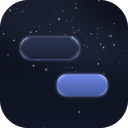
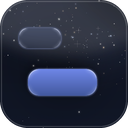
아이콘을 다시 그리고 눌림 상태 색을 분리한다
아이콘이 평평한 사각형이라 스티커처럼 보였다. 비네팅으로 가장자리를 눌러 말풍선이 뜨게
하고, 큰 말풍선 밑에 그림자를 깔고, 위쪽 광택과 얇은 안쪽 테두리를 얹었다.
밝은 테마와 어두운 테마에서 눌리는 방향이 반대라 배경 밝기로 갈랐다.

눌림 상태 색을 원래 색과 다르게 잡는다. 카톡은 normal 과 selected 사이를 스스로
부드럽게 전환하는데, 두 끝을 같은 색으로 두면 그 전환이 아무 일도 아닌 게 된다.
말풍선은 원래 다른 그림을 써서 전환이 보였고, 글자 계열은 전부 같은 값이라 죽어 있었다.
이제 포인트색 쪽으로 끌어당긴다.

애니메이션을 못 넣는 것과, 앱이 하는 전환의 양 끝을 설계하는 것은 다른 얘기다.
docs/spec.md 에 전환이 있는 자리를 표로 정리했다.

diff --git a/tools/gen.py b/tools/gen.py
@@ -52,6 +52,29 @@ def lighten(h, f):
     return '#%02X%02X%02X' % tuple(round(v + (255 - v) * f) for v in c)
 
 
+def mix(a, b, f):
+    """a 에서 b 쪽으로 f 만큼 끌어당긴 색."""
+    ca, cb = rgb(a), rgb(b)
+    return '#%02X%02X%02X' % tuple(round(ca[i] + (cb[i] - ca[i]) * f) for i in range(3))
+
+
+def derived(t):
+    """눌림·선택 상태 색을 만든다.
+
+    카톡은 normal 과 selected 사이를 스스로 부드럽게 전환한다. 우리가 애니메이션을
+    넣을 수는 없지만 양 끝을 다르게 그려두면 그 전환이 눈에 보인다.
+    두 끝을 같은 색으로 두면 앱이 아무리 이어줘도 아무 일도 안 일어난다.
+
+    글자는 포인트색 쪽으로 끌어당기고, 말풍선 글자는 배경 대비를 살짝 키운다.
+    """
+    return dict(
+        text_hi=mix(t['text'], t['accent'], 0.55),
+        subtext_hi=mix(t['subtext'], t['accent'], 0.6),
+        send_text_hi=mix(t['send_text'], t['accent'], 0.45),
+        recv_text_hi=mix(t['recv_text'], t['accent'], 0.45),
+    )
+
+
 def mid(a, b):
     ca, cb = rgb(a), rgb(b)
     return '#%02X%02X%02X' % tuple((ca[i] + cb[i]) // 2 for i in range(3))
@@ -470,37 +493,89 @@ def edge_glow(img, color, strength, width_ratio=0.22):
 
 
 def icon(t, size=128):
-    """테마 아이콘. 둥근 사각형에 배경과 말풍선 둘을 축소해 넣는다.
+    """테마 아이콘. 카톡 테마 목록에 뜨는 그림이자 README 의 이름 앞 표식.
+
+    앱 아이콘처럼 보이게 만든다 — 배경에 비네팅을 깔아 말풍선이 뜨게 하고,
+    위에서 빛이 드는 광택과 얇은 안쪽 테두리를 얹는다. 평평한 사각형은 스티커로 보인다.
 
     두 곳에 쓴다.
-      - docs/icon-<key>.png : README 에서 테마 이름 왼쪽
-      - Images/commonIcoTheme.png : 카톡 테마 목록에 뜨는 아이콘 (iOS 규격에 있는 자리)
+      - docs/icon-<key>.png        README 의 테마 이름 왼쪽
+      - Images/commonIcoTheme.png  카톡 테마 목록 (iOS 규격에 있는 자리)
     """
     ss = 4
     W = size * ss
+    light = _is_light(t)
+
     if t.get('chat_bg'):
         base = chat_bg(t['chat_bg'], W, W).convert('RGBA')
     else:
         base = vgradient(W, W, rgb(t['bg']), rgb(t['bg_deep'])).convert('RGBA')
 
+    # 비네팅. 가장자리를 눌러 가운데가 떠 보이게 한다
+    vig = Image.new('L', (W, W), 0)
+    vd = ImageDraw.Draw(vig)
+    for i in range(40):
+        f = i / 39
+        inset = int(W * 0.5 * f)
+        vd.ellipse([inset - W * 0.12, inset - W * 0.12,
+                    W - inset + W * 0.12, W - inset + W * 0.12],
+                   fill=int(90 * (f ** 2)))
+    vig = vig.filter(ImageFilter.GaussianBlur(W * 0.06))
+    shade = Image.new('RGBA', (W, W), (255, 255, 255, 255) if light else (0, 0, 0, 255))
+    shade.putalpha(vig.point(lambda v: int(v * (0.35 if light else 0.8))))
+    base.alpha_composite(shade)
+
     glow, pad = glow_of(t)
     style, alpha = t.get('bubble_style', 'solid'), t.get('bubble_alpha', 255)
     flat = t.get('flat', False)
+    gp = max(1, pad * ss // 3) if glow else 0     # 글로우 없으면 여백도 없다
 
-    bw, bh, r = int(W * 0.46), int(W * 0.17), int(W * 0.075)
-    recv = bubble_box(bw, bh, t['recv'], r, style, alpha, glow, pad * ss // 2, flat)
-    send = bubble_box(int(bw * 0.86), bh, t['send'], r, style, alpha,
-                      glow, pad * ss // 2, flat)
-    m = int(W * 0.13)
-    base.alpha_composite(recv, (m, int(W * 0.26)))
-    base.alpha_composite(send, (W - m - send.size[0], int(W * 0.55)))
+    # 큰 말풍선 하나와 작은 것 하나. 카톡 기본 아이콘도 큰 말풍선이 주인공이다
+    big_w, big_h = int(W * 0.54), int(W * 0.21)
+    sml_w, sml_h = int(W * 0.33), int(W * 0.16)
+    r_big, r_sml = int(big_h * 0.42), int(sml_h * 0.42)
 
+    sml = bubble_box(sml_w, sml_h, t['recv'], r_sml, style, alpha, glow, gp, flat)
+    big = bubble_box(big_w, big_h, t['send'], r_big, style, alpha, glow, gp, flat)
+
+    # 큰 것 밑에 옅은 그림자를 깔아 떠 보이게 한다
+    sh = Image.new('RGBA', (W, W), (0, 0, 0, 0))
+    ImageDraw.Draw(sh).rounded_rectangle(
+        [int(W * 0.20), int(W * 0.52), int(W * 0.20) + big_w, int(W * 0.52) + big_h],
+        radius=r_big, fill=(0, 0, 0, 90 if not light else 45))
+    base.alpha_composite(sh.filter(ImageFilter.GaussianBlur(W * 0.035)))
+
+    base.alpha_composite(sml, (int(W * 0.13), int(W * 0.20)))
+    base.alpha_composite(big, (int(W * 0.20), int(W * 0.52)))
+
+    # 위쪽 광택
+    gloss = Image.new('L', (W, W), 0)
+    ImageDraw.Draw(gloss).ellipse([-W * 0.45, -W * 0.95, W * 1.45, W * 0.42], fill=255)
+    gloss = gloss.filter(ImageFilter.GaussianBlur(W * 0.05))
+    sheen = Image.new('RGBA', (W, W), (255, 255, 255, 255))
+    sheen.putalpha(gloss.point(lambda v: int(v * (0.10 if light else 0.13))))
+    base.alpha_composite(sheen)
+
+    # 둥근 사각형으로 자르고 안쪽에 얇은 테두리
+    radius = int(W * 0.22)
     mask = Image.new('L', (W, W), 0)
-    ImageDraw.Draw(mask).rounded_rectangle([0, 0, W - 1, W - 1],
-                                           radius=int(W * 0.22), fill=255)
+    ImageDraw.Draw(mask).rounded_rectangle([0, 0, W - 1, W - 1], radius=radius, fill=255)
     out = Image.new('RGBA', (W, W), (0, 0, 0, 0))
     out.paste(base, (0, 0), mask)
+
+    edge = Image.new('RGBA', (W, W), (0, 0, 0, 0))
+    ImageDraw.Draw(edge).rounded_rectangle(
+        [ss, ss, W - ss - 1, W - ss - 1], radius=radius - ss,
+        outline=(0, 0, 0, 60) if light else (255, 255, 255, 46), width=ss)
+    edge.putalpha(ImageChops.multiply(edge.getchannel('A'), mask))
+    out.alpha_composite(edge)
     return out.resize((size, size), Image.LANCZOS)
+
+
+def _is_light(t):
+    """밝은 테마인지. 배경 밝기로 판단한다."""
+    c = rgb(t['bg'])
+    return (c[0] * 299 + c[1] * 587 + c[2] * 114) / 1000 > 128
 
 
 # --- iOS ----------------------------------------------------------------
@@ -542,13 +617,13 @@ MainViewStyle-Primary
     background-color: {bg};{mainbg}
 
     -ios-text-color: {text};
-    -ios-highlighted-text-color: {text};
+    -ios-highlighted-text-color: {text_hi};
 
     -ios-description-text-color: {subtext};
-    -ios-description-highlighted-text-color: {subtext};
+    -ios-description-highlighted-text-color: {subtext_hi};
 
     -ios-paragraph-text-color: {subtext};
-    -ios-paragraph-highlighted-text-color: {subtext};
+    -ios-paragraph-highlighted-text-color: {subtext_hi};
 
     /* alpha 가 1 미만이면 뒤의 배경 이미지가 비친다. 유리 느낌은 여기서 나온다 */
     -ios-normal-background-color: {bg};
@@ -618,7 +693,7 @@ MessageCellStyle-Send
     -ios-group-title-edgeinsets: {ins};
 
     -ios-text-color: {send_text};
-    -ios-selected-text-color: {send_text};
+    -ios-selected-text-color: {send_text_hi};
     -ios-unread-text-color: {accent};
 }}
 
@@ -633,7 +708,7 @@ MessageCellStyle-Receive
     -ios-group-title-edgeinsets: {ins};
 
     -ios-text-color: {recv_text};
-    -ios-selected-text-color: {recv_text};
+    -ios-selected-text-color: {recv_text_hi};
     -ios-unread-text-color: {accent};
 }}
 
@@ -739,6 +814,7 @@ def gen_ios(t, root):
 
     ca = t.get('cell_alpha', 1.0)
     fields = dict(t)
+    fields.update(derived(t))          # 눌림 상태 색
     fields.pop('cell_alpha', None)          # 아래에서 문자열로 다시 넣는다
     ins = '%dpx %dpx %dpx %dpx' % (INSET_V + pad, INSET_H + pad,
                                   INSET_V + pad, INSET_H + pad)
@@ -780,11 +856,11 @@ COLORS = [
     ('theme_tab_bannerbadge_background_color', 'accent'),
     ('theme_section_title_color', 'subtext'),
     ('theme_title_color', 'text'),
-    ('theme_title_pressed_color', 'text'),
+    ('theme_title_pressed_color', 'text_hi'),
     ('theme_paragraph_color', 'subtext'),
-    ('theme_paragraph_pressed_color', 'subtext'),
+    ('theme_paragraph_pressed_color', 'subtext_hi'),
     ('theme_description_color', 'subtext'),
-    ('theme_description_pressed_color', 'subtext'),
+    ('theme_description_pressed_color', 'subtext_hi'),
     ('theme_body_cell_color', 'bg'),
     ('theme_body_cell_pressed_color', 'pressed'),
     ('theme_body_cell_border_color', 'border'),
@@ -854,13 +930,15 @@ def gen_android(t, root, code):
     lines = ['<?xml version="1.0" encoding="utf-8"?>',
              '<!-- %s. tools/themes.py 에서 생성된다. 직접 고치지 말 것. -->' % t['name'],
              '<resources>', '']
+    tok = dict(t)
+    tok.update(derived(t))
     ca = t.get('cell_alpha', 1.0)
     # 셀 배경만 알파를 먹인다. 글자색까지 투명해지면 안 읽힌다
     faded = {'theme_body_cell_color', 'theme_body_secondary_cell_color',
              'theme_maintab_cell_color', 'theme_header_cell_color'}
     for name, token in COLORS:
         a = ca if name in faded else 1.0
-        lines.append('    <color name="%s">%s</color>' % (name, argb(t[token], a)))
+        lines.append('    <color name="%s">%s</color>' % (name, argb(tok[token], a)))
     ba = t.get('bubble_alpha', 255) / 255.0
     lines += ['',
               '    <!-- 말풍선은 9-patch 이미지가 이긴다. 아래는 이미지가 안 먹을 때의 대비값 -->',

diff --git a/tools/themes.py b/tools/themes.py
@@ -38,7 +38,7 @@ chat_bg
   None 이면 단색. ('linear', 위, 아래) 또는 ('aurora', 바탕, [색...]) 이면 이미지를 그린다.
 """
 
-VERSION = '0.13.1'
+VERSION = '0.13.2'
 
 THEMES = [
     dict(

diff --git a/docs/spec.md b/docs/spec.md
@@ -104,9 +104,39 @@
 
 ---
 
+## 애니메이션은 못 넣지만 "전환"은 설계할 수 있음
+
+규격에 시간 개념이 있는 속성은 없음. 그런데 **카톡이 스스로 하는 전환**이 있음 —
+말풍선을 누르면 보통 상태에서 선택 상태로 색이 부드럽게 바뀜.
+
+우리가 애니메이션을 넣는 게 아니라, **그 전환의 양 끝을 그려주는 것임.**
+두 끝을 같은 색으로 두면 앱이 아무리 이어줘도 아무 일도 안 일어남.
+
+전환이 있는 자리 — 여기를 대비되게 잡으면 움직임이 보임.
+
+| 자리 | 보통 | 눌림·선택 |
+|---|---|---|
+| 말풍선 배경 | `-ios-background-image` | `-ios-selected-background-image` |
+| 말풍선 글자 | `-ios-text-color` | `-ios-selected-text-color` |
+| 목록 셀 배경 | `-ios-normal-background-color` / `-alpha` | `-ios-selected-background-color` / `-alpha` |
+| 목록 이름 | `-ios-text-color` | `-ios-highlighted-text-color` |
+| 상태메시지 | `-ios-description-text-color` | `-ios-description-highlighted-text-color` |
+| 마지막 메시지 | `-ios-paragraph-text-color` | `-ios-paragraph-highlighted-text-color` |
+| 탭 글자 | `-ios-tab-text-color` | `-ios-tab-highlighted-text-color` |
+| 전송 버튼 | `-ios-send-normal-*` | `-ios-send-highlighted-*` |
+| 입력바 아이콘 | `-ios-button-normal-foreground-color` | `-ios-button-highlighted-foreground-color` |
+| 탭 아이콘 | `-ios-*-normal-icon-image` | `-ios-*-selected-icon-image` |
+| 잠금 동그라미 | `-ios-bullet-*-image` | `-ios-bullet-selected-*-image` |
+| 친구추가 버튼 | `theme_find_add_friend_button_image` | `..._pressed_image` (Android) |
+
+지금은 글자 계열을 포인트색 쪽으로 끌어당겨 놓음(`derived()`).
+말풍선은 보통/선택에 서로 다른 그림을 씀.
+
+---
+
 ## 안 되는 것
 
-- **애니메이션.** 양쪽 가이드에 시간 개념이 있는 속성이 하나도 없음. iOS 는 PNG 만 받고
+- **애니메이션.** 양쪽 가이드에 시간 개념이 있는 속성이 하나도 없음(위의 상태 전환은 앱이 하는 것임). iOS 는 PNG 만 받고
   APNG 를 넣어도 첫 프레임만 나옴. 안드로이드는 `animation-list` 를 넣어볼 수는 있지만
   누군가 `start()` 를 불러줘야 도는데 카톡이 그럴 이유가 없음
 - **폰트.** 글꼴을 바꾸는 속성이 없음
